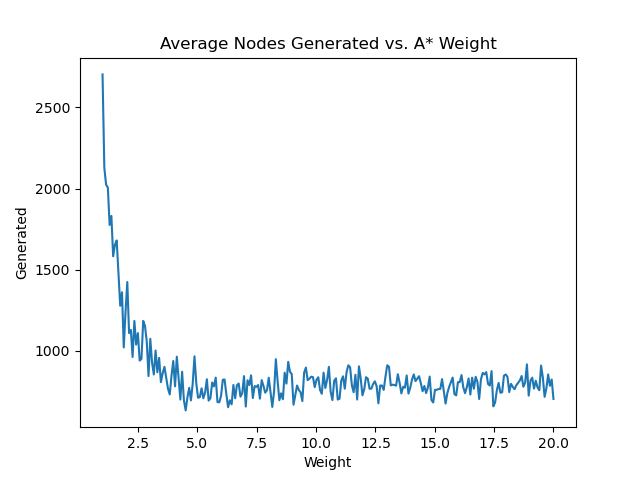
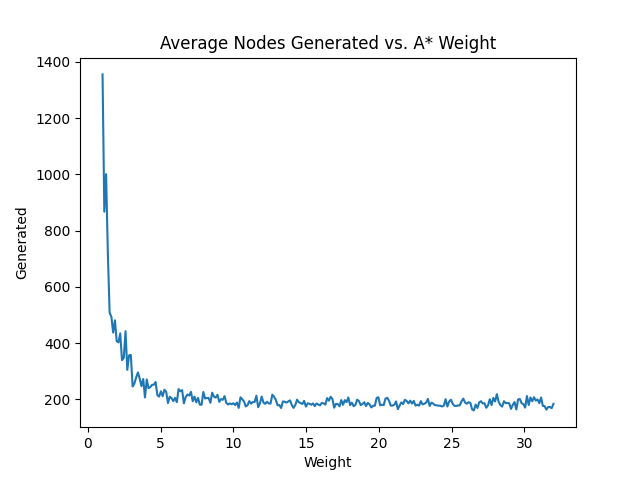
doc updates

diff --git a/src/slidingpuzzle/heuristics.py b/src/slidingpuzzle/heuristics.py
@@ -84,7 +84,7 @@ def hamming_distance(board: Board) -> int:
 
 def linear_conflict_distance(board: Board) -> int:
     r"""
-    Starts with manhattan distance and adds an additional 2 for every out-of-place
+    Starts with Manhattan distance and adds an additional 2 for every out-of-place
     pair of tiles in the same row or column that are also both in their target row
     or column. It will take at least 2 additional moves to reshuffle the tiles into
     their correct positions.
@@ -93,7 +93,7 @@ def linear_conflict_distance(board: Board) -> int:
         board: The board
 
     Returns:
-        A slightly more accurate heuristic value than manhattan distance.
+        A slightly more accurate heuristic value than Manhattan distance.
     """
     h = len(board)
     w = len(board[0])

diff --git a/README.md b/README.md
@@ -5,27 +5,25 @@
 ![PyPI - License](https://img.shields.io/pypi/l/slidingpuzzle)
 <a href="https://www.buymeacoffee.com/entangledloops" target="_blank"><img src="https://www.buymeacoffee.com/assets/img/custom_images/orange_img.png" alt="Buy Me A Coffee" height=32></a>
 
+[Installation](https://slidingtilepuzzle.readthedocs.io/en/latest/install.html) | Documentation ([Latest](https://slidingtilepuzzle.readthedocs.io/en/latest/slidingpuzzle.html) | [Stable](https://slidingtilepuzzle.readthedocs.io/en/stable/slidingpuzzle.html]))
+
+A package for solving sliding tile puzzles.
+
 - [Sliding Puzzle](#sliding-puzzle)
   - [Installation](#installation)
-  - [Documentation](#documentation)
   - [Examples](#examples)
   - [Algorithms](#algorithms)
   - [Heuristics](#heuristics)
     - [Neural Nets](#neural-nets)
   - [Custom Models](#custom-models)
-  - [Creating a Pull Request](#creating-a-pull-request)
+  - [Contributing](#contributing)
 
-A package for solving sliding tile puzzles.
 
 ## Installation
 
 ```console
 pip install slidingpuzzle
 ```
-
-## Documentation
-
-https://slidingtilepuzzle.readthedocs.io/en/latest/slidingpuzzle.html
 
 ## Examples
 
@@ -145,7 +143,7 @@ may miss the goal, even thought the board is solvable.
 The available heuristics are:
 - [`euclidean_distance`](https://slidingtilepuzzle.readthedocs.io/en/latest/slidingpuzzle.html#slidingpuzzle.heuristics.euclidean_distance) - The straight line distance in Euclidean space between two tiles. This is essentially the hypotenuse of a right triangle. (The square root is not used as it does not affect the sorting order.)
 - [`hamming_distance`](https://slidingtilepuzzle.readthedocs.io/en/latest/slidingpuzzle.html#slidingpuzzle.heuristics.hamming_distance) - Count of how many tiles are in the correct position
-- [`linear_conflict_distance`](https://slidingtilepuzzle.readthedocs.io/en/latest/slidingpuzzle.html#slidingpuzzle.heuristics.linear_conflict_distance)
+- [`linear_conflict_distance`](https://slidingtilepuzzle.readthedocs.io/en/latest/slidingpuzzle.html#slidingpuzzle.heuristics.linear_conflict_distance) - This is an augmented Manhattan distance. Adds an additional 2 to each pair of inverted tiles that are already on their goal row/column.
 - [`manhattan_distance`](https://slidingtilepuzzle.readthedocs.io/en/latest/slidingpuzzle.html#slidingpuzzle.heuristics.manhattan_distance) - Count of how many moves it would take each tile to arrive in the correct position, if other tiles could be ignored
 - [`random_distance`](https://slidingtilepuzzle.readthedocs.io/en/latest/slidingpuzzle.html#slidingpuzzle.heuristics.random_distance) - This is a random number (but a *consistent* random number for a given board state). It is useful as a baseline.
 - Neural net heuristics from [`slidingpuzzle.nn`](https://slidingtilepuzzle.readthedocs.io/en/latest/slidingpuzzle.nn.html) submodule (see section below)
@@ -155,15 +153,15 @@ The available heuristics are:
 There are two simple provided utility functions for evaluating algorithm/heuristic performance: [`evaluate()`](https://slidingtilepuzzle.readthedocs.io/en/latest/slidingpuzzle.html#slidingpuzzle.algorithms.evaluate) and [`compare()`](https://slidingtilepuzzle.readthedocs.io/en/latest/slidingpuzzle.html#slidingpuzzle.algorithms.compare).
 
 ```python
->>> import matplotlib.pyplot as plt
->>> import numpy as np
->>> x = np.linspace(1, 20, num=128)
->>> y = [evaluate(3, 3, weight=w) for w in x]
->>> plt.plot(x, y)
->>> plt.title("Average Nodes Generated vs. A* Weight")
->>> plt.xlabel("Weight")
->>> plt.ylabel("Generated")
->>> plt.show()
+import matplotlib.pyplot as plt
+import numpy as np
+x = np.linspace(1, 32, num=256)
+y = [evaluate(3, 3, weight=w) for w in x]
+plt.plot(x, y)
+plt.title("Average Nodes Generated vs. A* Weight")
+plt.xlabel("Weight")
+plt.ylabel("Generated")
+plt.show()
 ```
 
 ![Generated vs. Weight](https://raw.githubusercontent.com/entangledloops/slidingpuzzle/master/media/generated_vs_weight.png))
@@ -278,7 +276,7 @@ You can add your `my_model_distance()` function to the bottom of [`nn/heuristics
 During training, tensorboard will show your training/test loss and accuracy.
 After training is complete, you can also evaluate each checkpoint for comparison as shown above.
 
-## Creating a Pull Request
+## Contributing
 
 First of all, thanks for contributing!
 Setup your dev environment:
